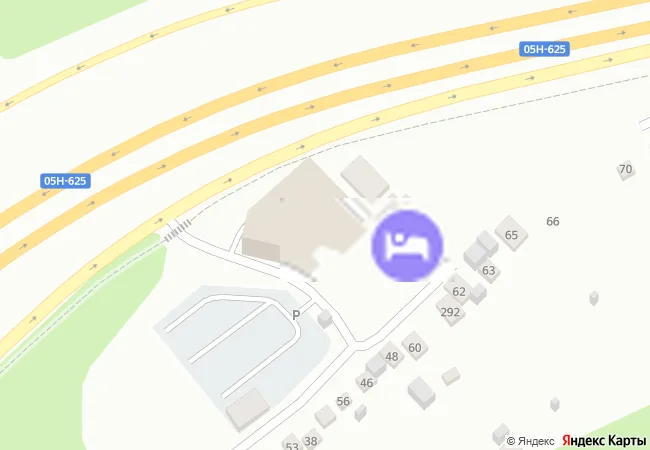
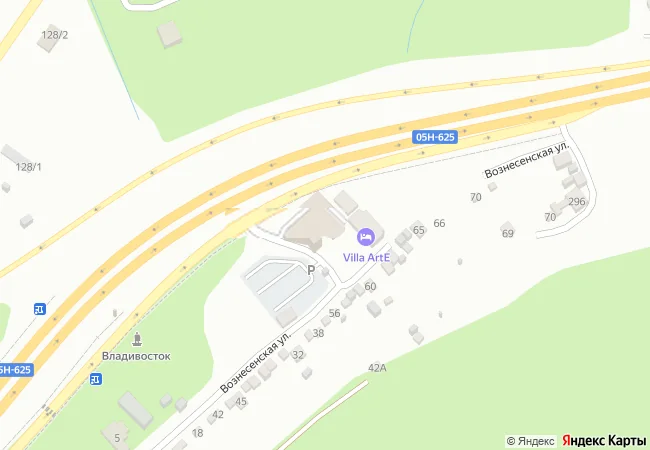
Zoom the map out a level, tighten the label patch
Client: "too close" — dropped from zoom 18 to 17. Also found and fixed a
real regression while retargeting the patch box for the new zoom: the wider
box (covering both labels) landed on a spot where the zoom-16 donor tile
turned out to still show "Villa ArtE" (an earlier assumption that zoom 16 is
always label-free at this location doesn't hold everywhere). Narrowed the
patch to just "Лесная Заимка" + icon, confirmed clean at zoom 16 for this
tighter box, and left "Villa ArtE" completely untouched instead of also
patching it — smaller patch reads sharper too.

diff --git a/scripts/generate-map-image.py b/scripts/generate-map-image.py
@@ -27,14 +27,20 @@ import requests
 from PIL import Image
 
 LAT, LON = 43.265668, 132.072916  # см. src/data/contacts.json -> lat/lon
-ZOOM = 18
-DONOR_ZOOM = 16  # зум, на котором Яндекс ещё не рисует подписи организаций
+ZOOM = 17  # клиент попросил отдалить с 18 — было «слишком близко»
+DONOR_ZOOM = 16  # зум, на котором в области патча (см. LABEL_PATCH_BOX) ещё
+# нет никаких подписей — проверять эмпирически при каждой смене ZOOM или
+# LABEL_PATCH_BOX, а не считать постоянным: один и тот же зум 16 в области
+# побольше (захватывавшей и "Villa ArtE") неожиданно показывал её подпись —
+# похоже, зависит не только от зума, но и от конкретной точки/размера.
 TILE_W, TILE_H = 650, 450
-# Область с фирменными подписями Яндекса ("Лесная Заимка" + "Villa ArtE",
-# стоят почти впритык друг к другу) поверх точки маркера — подобрано вручную
-# по снимку на зуме {ZOOM}. Захватывает обе целиком: более узкий бокс однажды
-# обрезал вторую подпись на середине слова, получалась нечитаемая каша.
-LABEL_PATCH_BOX = (280, 198, 455, 282)
+# Область с подписью "Лесная Заимка" + иконкой поверх точки маркера —
+# подобрано вручную по снимку на зуме {ZOOM}. Только эта подпись (не заодно
+# соседняя "Villa ArtE" — другой бизнес, трогать её незачем, а сама область
+# патча размытая: чем она больше, тем это заметнее). Есть ~15px зазор перед
+# "Villa ArtE" по вертикали — этого хватает не задеть её, если менять box,
+# смотреть на снимке, где именно проходит граница.
+LABEL_PATCH_BOX = (225, 208, 345, 238)
 OUT_PATH = "public/img/map-location.webp"
 
 
